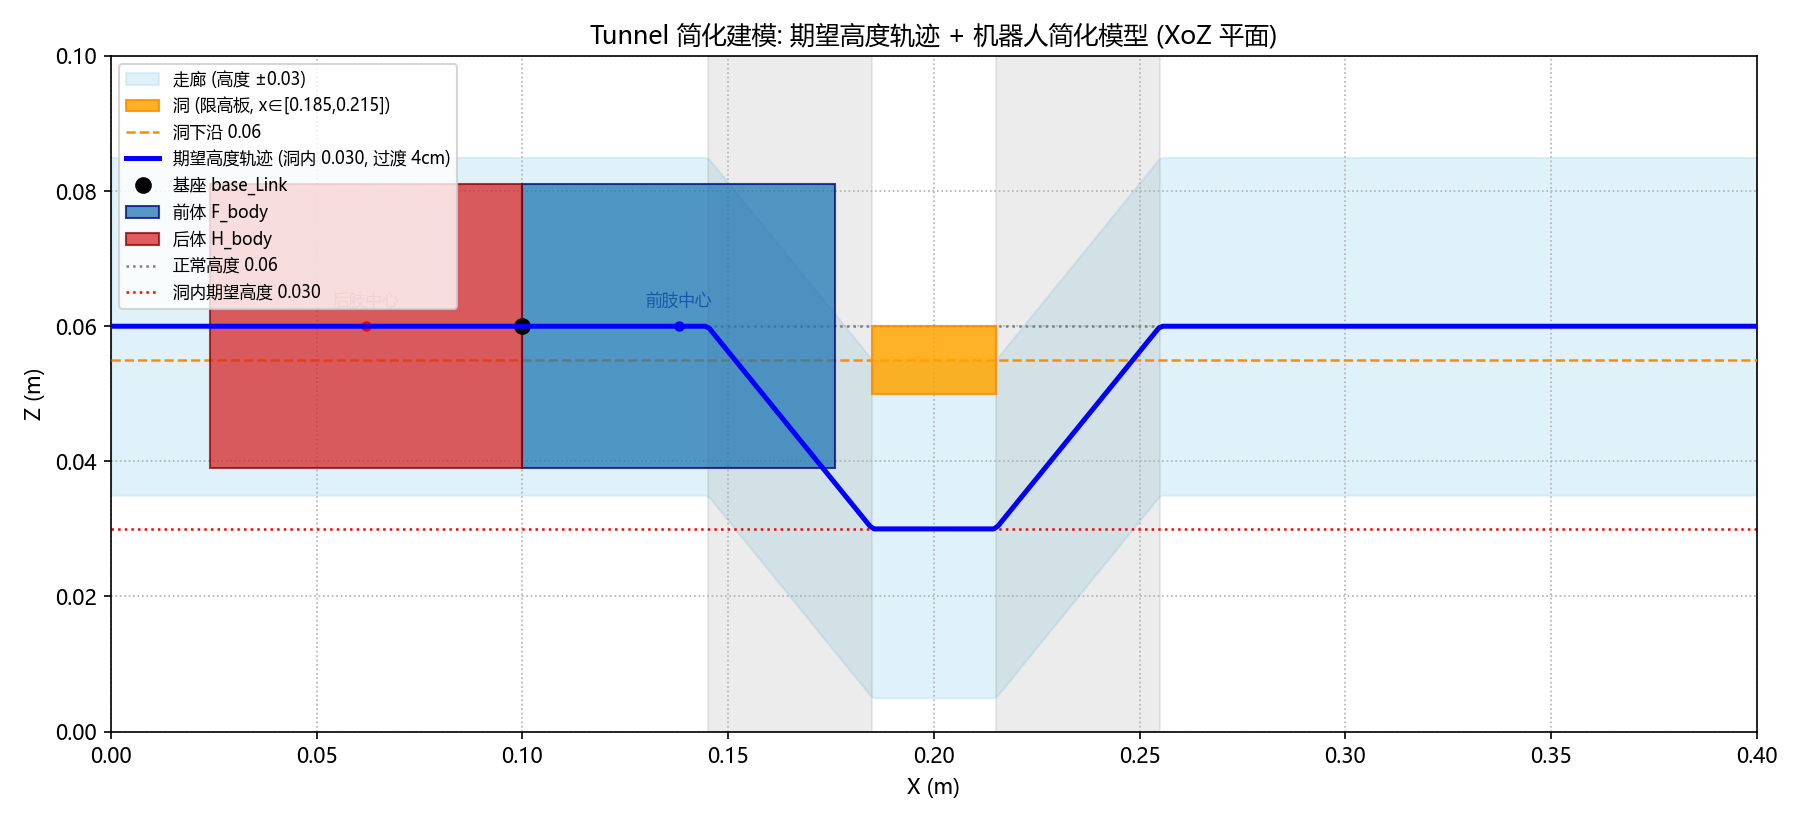
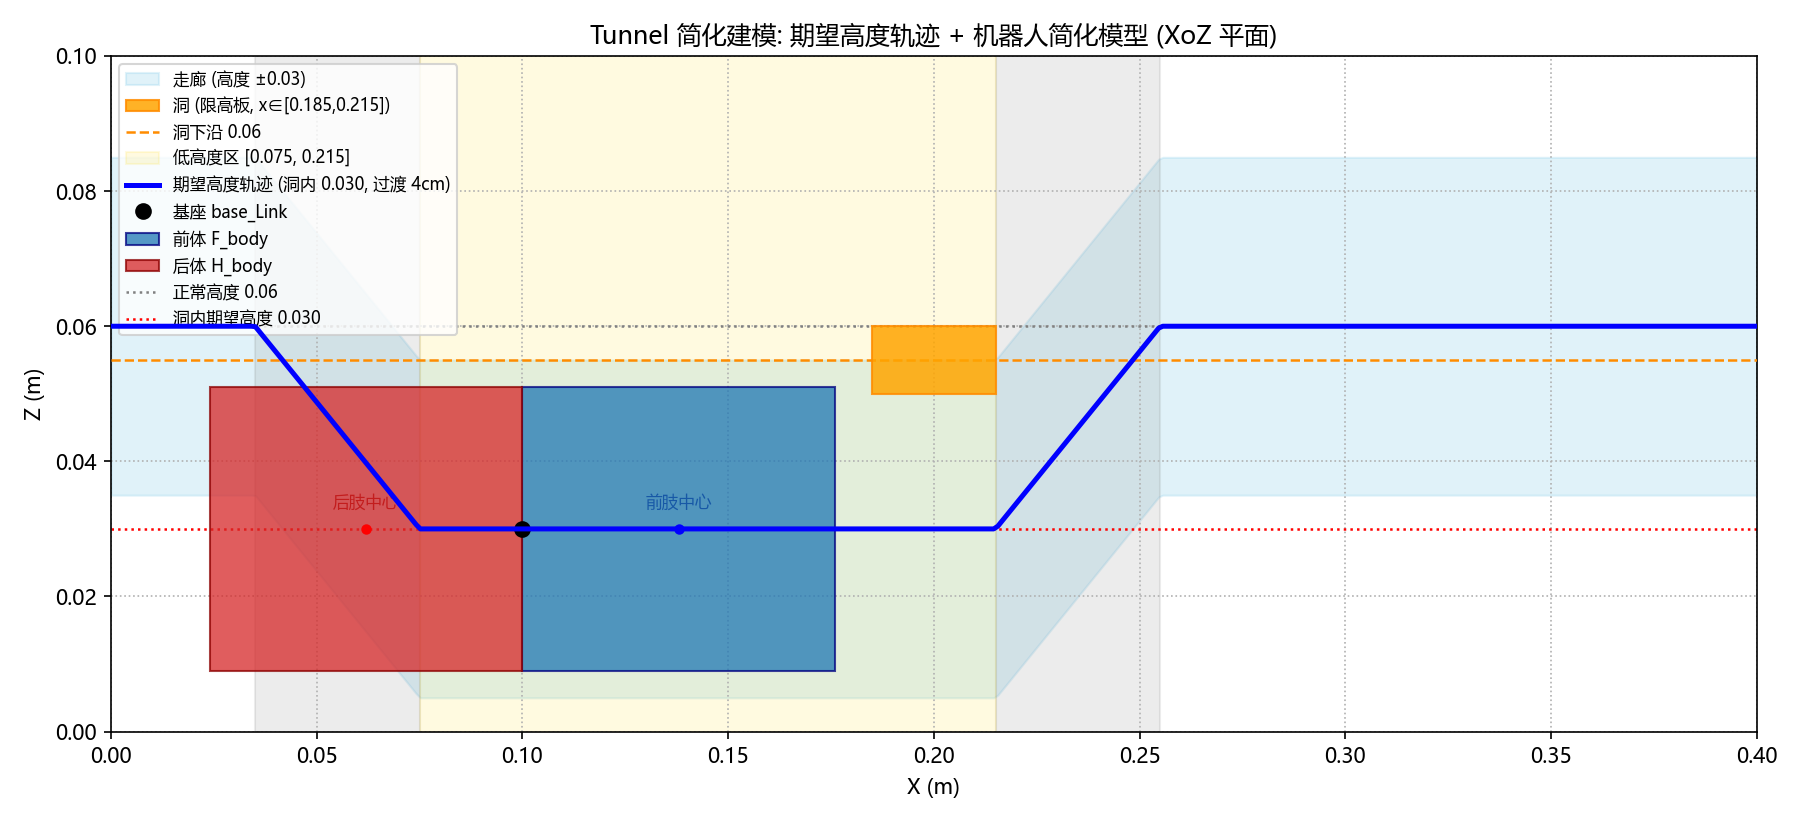
feat(viz): Viz_Tunnel_Path 低高度区改为 [X1-0.11, X2] — 洞左缘向左延伸11cm(不对称), 4cm线性过渡位于区间外侧; 机器人快照x=0.10落入低高度区

Changed region(s): [[0.0622, 0.0606, 0.56, 0.5152], [0.0933, 0.4545, 0.56, 0.9091]]

diff --git a/src/mjlab/scripts/Viz_Path/Viz_Tunnel_Path.py b/src/mjlab/scripts/Viz_Path/Viz_Tunnel_Path.py
@@ -22,6 +22,12 @@ HOLE_THICKNESS = 0.01     # 限高板厚度 (m) = 2*size[2] = 0.01
 X1 = HOLE_X_CENTER - HOLE_HALF_X   # 洞最左侧 X1 (m) = 0.185
 X2 = HOLE_X_CENTER + HOLE_HALF_X   # 洞最右侧 X2 (m) = 0.215
 
+# --- 低高度区配置 ---
+# 低高度区 = [X1 - 0.11, X2] (洞左缘向左延伸 11cm, 右边界 = 洞右缘, 不对称)
+LOW_ZONE_LEFT_EXTEND = 0.11   # 低高度区相对洞左缘 X1 向左延伸 (m)
+LOW_X1 = X1 - LOW_ZONE_LEFT_EXTEND  # 低高度区左边界 (m) = 0.075
+LOW_X2 = X2                        # 低高度区右边界 (m) = 洞右缘 0.215
+
 # --- 期望高度规则 ---
 HEIGHT_NORMAL = 0.06      # 正常段期望高度 (m)
 HEIGHT_CLEARANCE = 0.025  # 过洞时相对洞下沿的下降量 (m) = 走廊半高, 保证走廊上沿 ≤ 洞下沿
@@ -43,13 +49,13 @@ N_SAMPLES = 400           # 采样点数
 SAVE_PATH = Path(__file__).parent / "Result" / "Viz_Tunnel_Path.png"  # 输出图片
 
 
-# 计算期望高度轨迹 (梯形波): 洞内 [X1, X2] = 低高度, 边界外各 4cm 线性过渡
+# 计算期望高度轨迹 (梯形波): [LOW_X1, LOW_X2] = 低高度, 区间外侧各 4cm 线性过渡
 def compute_height_trajectory(xs: np.ndarray) -> np.ndarray:
     breakpoints = [
-        X1 - TRANSITION_LENGTH,   # 左过渡起点 (正常)
-        X1,                       # 左过渡终点 (低)
-        X2,                       # 右过渡起点 (低)
-        X2 + TRANSITION_LENGTH,   # 右过渡终点 (正常)
+        LOW_X1 - TRANSITION_LENGTH,   # 左过渡起点 (正常)
+        LOW_X1,                       # 左过渡终点 (低)
+        LOW_X2,                       # 右过渡起点 (低)
+        LOW_X2 + TRANSITION_LENGTH,   # 右过渡终点 (正常)
     ]
     values = [HEIGHT_NORMAL, HEIGHT_HOLE, HEIGHT_HOLE, HEIGHT_NORMAL]
     return np.interp(xs, breakpoints, values, left=HEIGHT_NORMAL, right=HEIGHT_NORMAL)
@@ -123,8 +129,12 @@ def plot_tunnel_path() -> None:
         label=f"洞下沿 {HOLE_BOTTOM:.2f}",
     )
 
+    # 低高度区背景 ([LOW_X1, X2], 含洞前延伸段与洞)
+    ax.axvspan(LOW_X1, X2, color="gold", alpha=0.12, zorder=1,
+               label=f"低高度区 [{LOW_X1:.3f}, {X2:.3f}]")
+
     # 线性过渡带 (4cm, 正常↔低高度)
-    ax.axvspan(X1 - TRANSITION_LENGTH, X1, color="gray", alpha=0.15, zorder=1)
+    ax.axvspan(LOW_X1 - TRANSITION_LENGTH, LOW_X1, color="gray", alpha=0.15, zorder=1)
     ax.axvspan(X2, X2 + TRANSITION_LENGTH, color="gray", alpha=0.15, zorder=1)
 
     # 期望高度轨迹 (单条, 三点共享)
